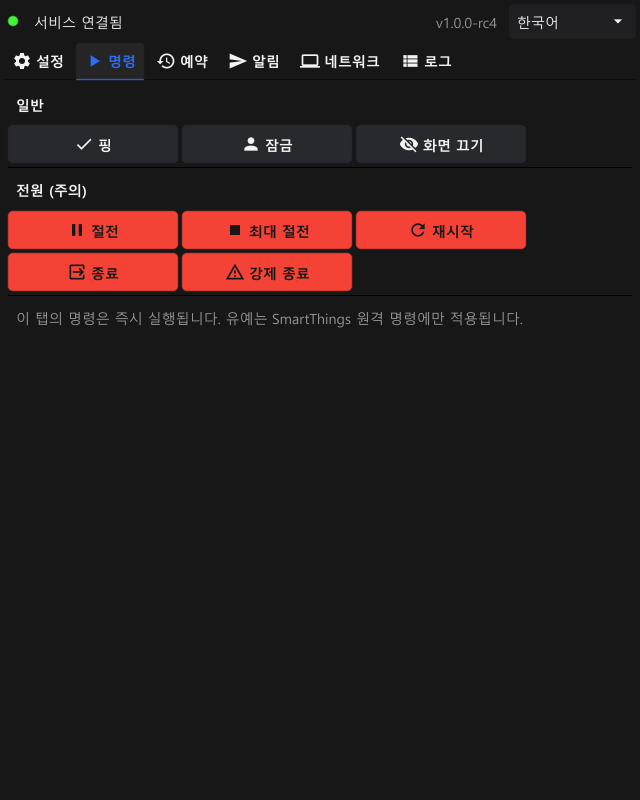
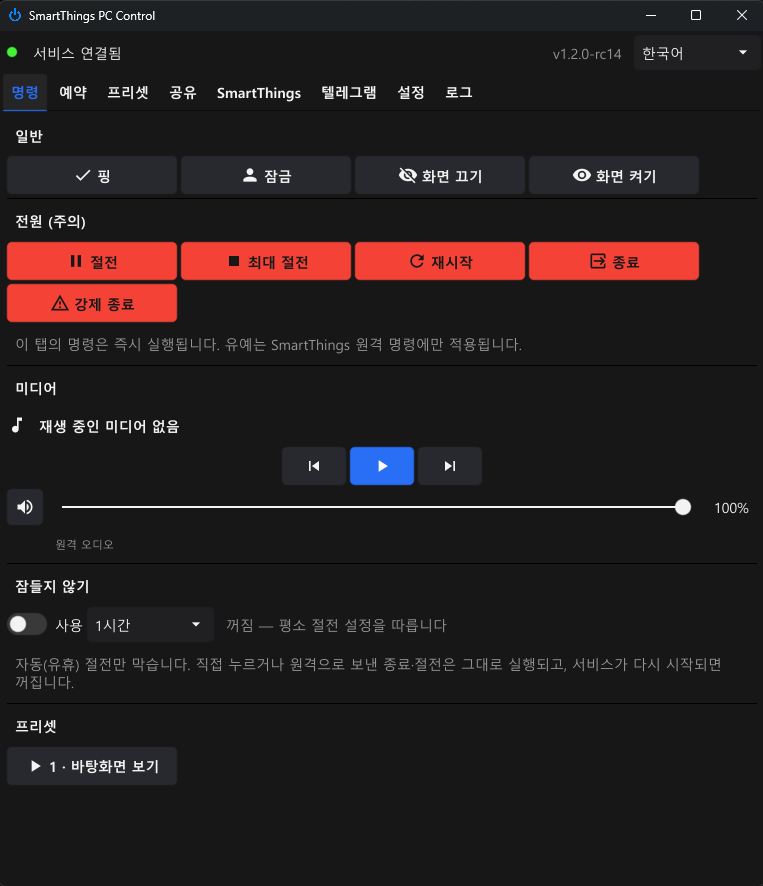
docs: README 스크린샷을 새 탭 구성(명령·공유)으로 바꾼다

diff --git a/README.md b/README.md
@@ -12,7 +12,7 @@
 
 [한국어](#한국어) · [English](#english)
 
-<img src="docs/gui-settings.png" alt="설정 탭" width="49%"> <img src="docs/gui-logs.png" alt="로그 탭" width="49%">
+<img src="docs/gui-commands.png" alt="명령 탭" width="49%"> <img src="docs/gui-share.png" alt="공유 탭" width="49%">
 
 </div>
 
